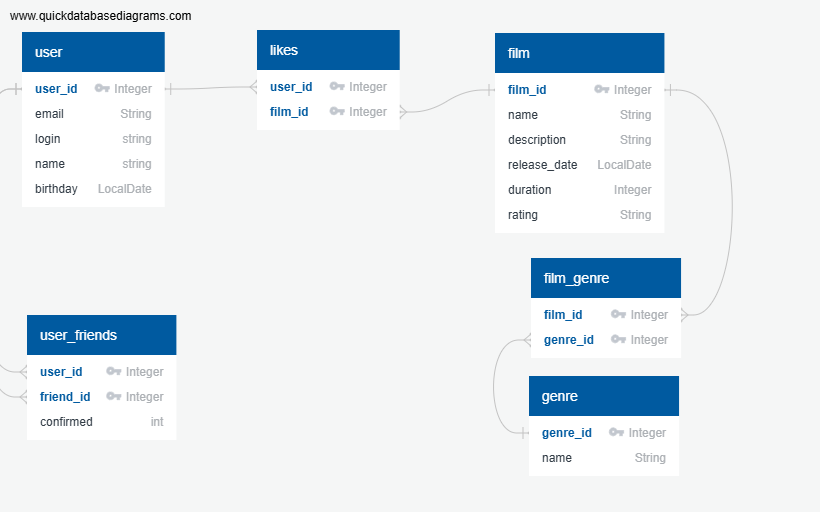
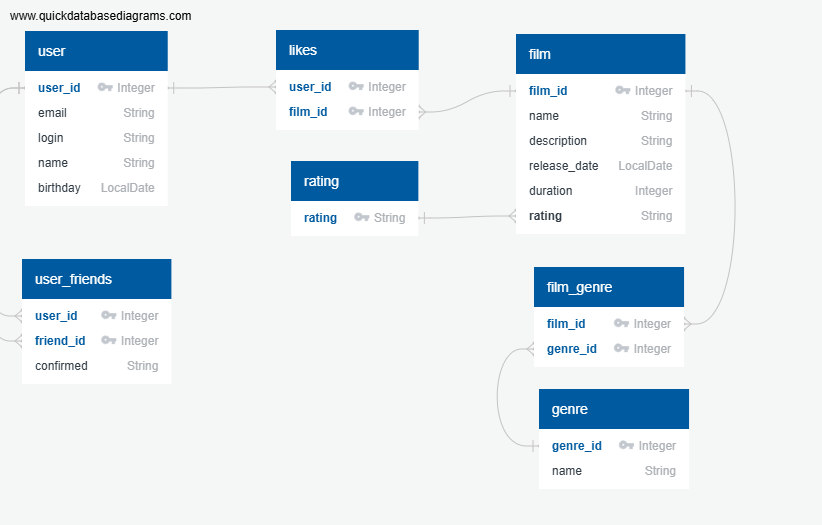
Выполнение 12/1 ТЗ

diff --git a/README.md b/README.md
@@ -21,7 +21,7 @@ Template repository for Filmorate project.
 - `description`: Описание фильма (до 200 символов).
 - `release_date`: Дата выхода фильма.
 - `duration`: Продолжительность фильма (в минутах).
-- `rating`: Строка, одно из предопределенных значений (R, NC_17, PG_13, G, PG)
+- `rating`: наименования рейтингов
 
 
 ### genre
@@ -40,10 +40,14 @@ Template repository for Filmorate project.
 - `user_id`: Идентификатор пользователя, часть ключа.
 - `film_id`: Идентификатор фильма, часть ключа.
 
-### genre
+### film_genre
 Таблица описывает к каким жанрам относится фильм:
-- `genre_id`: Уникальный идентификатор жанра.
-- `name`: Название жанра (например, Комедия, Драма).
+- `film_id`: Идентификатор фильма, часть ключа.
+- `genre_id`: идентификатор жанра, часть ключа.
+
+### rating
+Таблица содержит наименования рейтингов:
+- `rating`: Уникальный ключ наименования рейтингов (R, NC_17, PG_13, G, PG).
 
 ## Примеры запросов
 
